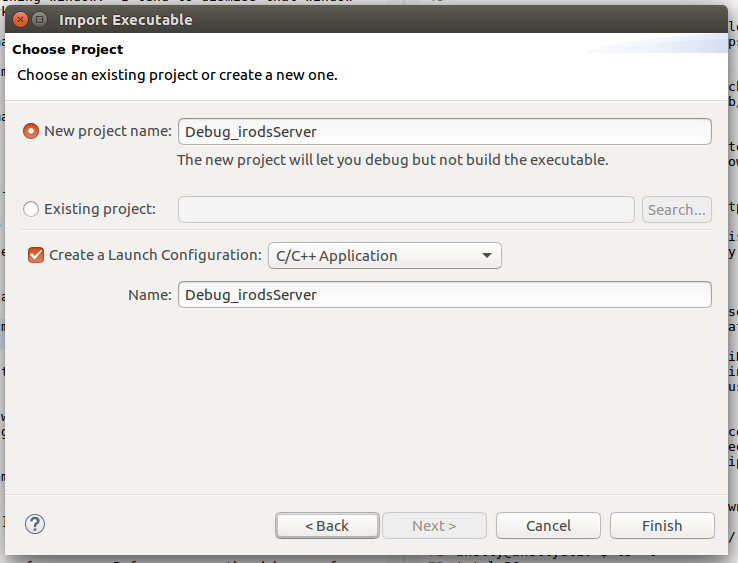
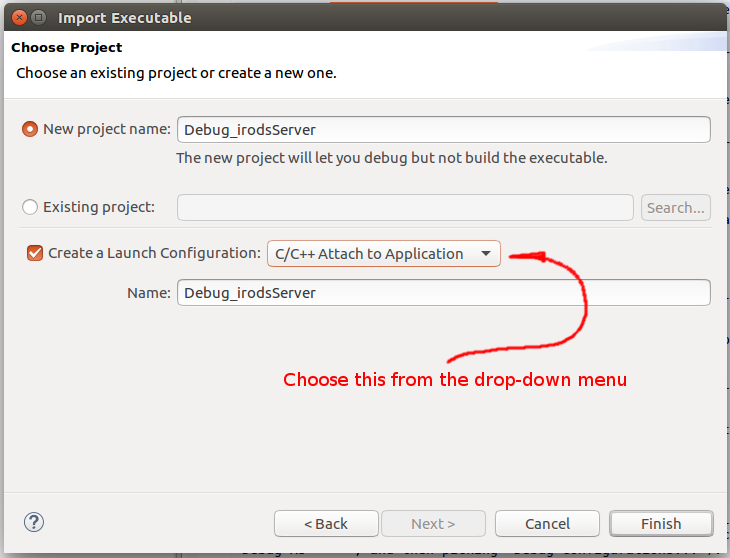
Interim checkin. Don't look

diff --git a/Eclipse-attach-to-irodsServer.md b/Eclipse-attach-to-irodsServer.md
@@ -11,6 +11,11 @@ The eclipse debugger will be run as the user **akelly** in this document.  Pleas
 The linux system we mostly use for development (Ubuntu, currently it is mostly version 16.04) is installed with a restricted ability for **ptrace** to attach a debugger to a running process.  The security module is called **Yama**, and by default it runs in mode "1", which is a restrictive ability. This configuration will allow your debugger to start, run, or attach to **your** executable (running as a regular process with your linux user-id). In order to attach a debugger to a running server process (see documentation links below), this mode has to be changed to "0" in most cases. This is a run-time configuration set by modifying a file under **/proc**:
 
 ~~~
+root@akellydt1:/home/akelly/src/renci/How-To/images# sysctl kernel.yama.ptrace_scope=0
+kernel.yama.ptrace_scope = 0
+root@akellydt1:/home/akelly/src/renci/How-To/images# sysctl kernel.yama.ptrace_scope
+kernel.yama.ptrace_scope = 0
+
 $ sudo echo 0 > /proc/sys/kernel/yama/ptrace_scope
 ~~~
 
@@ -18,7 +23,6 @@ You can verify the configuration by running:
 
 ~~~
 akelly@akellydt1:~$ sudo sysctl kernel.yama.ptrace_scope
-<password>
 kernel.yama.ptrace_scope = 0
 ~~~
 
@@ -101,7 +105,7 @@ The next screen you see is the opening window.  I tend to dismiss that window fo
 
 ![Splash](images/debug-iserver-image1-1.png "Move on to the worksbench") 
 
-Now that the workbench is open, import the executable.  Click "File" --> "Import...":
+Now that the workbench is open, import the executable.  Click "File" --> "Import...", and this dialog opens up:
 
 ![Import](images/debug-iserver-image1-5.png "Import the executable /usr/sbin/irodsServer") 
 
@@ -117,7 +121,7 @@ Type in "/usr/sbin/irodsServer", and click "Next".
 
 ![Choose Project](images/debug-iserver-image4.png "Enter project name and launch configuration") 
 
-In the dialog above, you can use the names eclipse sets up, or enter your own, then click "Finish".
+In the dialog above, click on the drop-down menu next to "Create a Launch Configuration:", and pick "C/C++ Attach to Application".  Then, you can use the names eclipse sets up, or enter your own, then click "Finish".
 
 The next dialog pops up. This is where you can enter where the sources are. Click on the "Source" tab:
 
@@ -143,7 +147,7 @@ Click the small arrow next to "C/C++ Attach to Application" if that section is n
 
 What opens up is this dialog, asking whether you want to switch from the C/C++ perspective to the Debug perspective.  Choose Yes (you might want to first click on the "Remember my decision" checkbox to avoid getting this dialog box again:
 
-![Switch Perspectives](images/debug-icmds-image11.png "Switch Perspectives: click Yes") 
+![Switch Perspectives](images/debug-iserver-image11.png "Switch Perspectives: click Yes") 
 
 What opens up is the Debug Perspective, with the program running, stopped at a breakpoint just inside the main() function:
 
